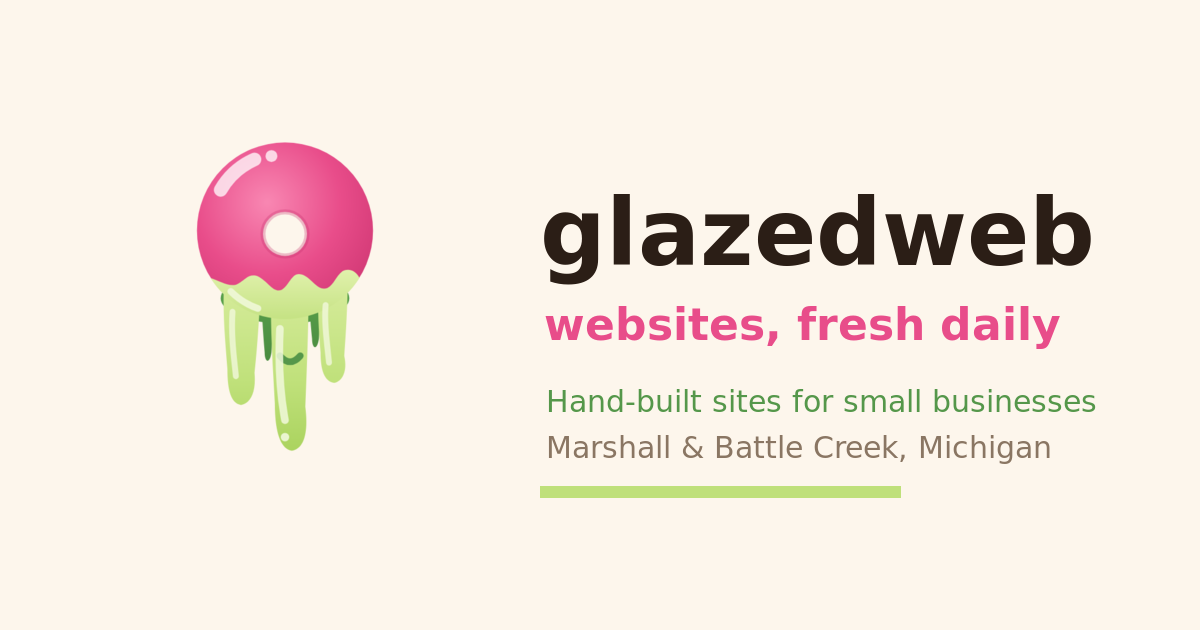
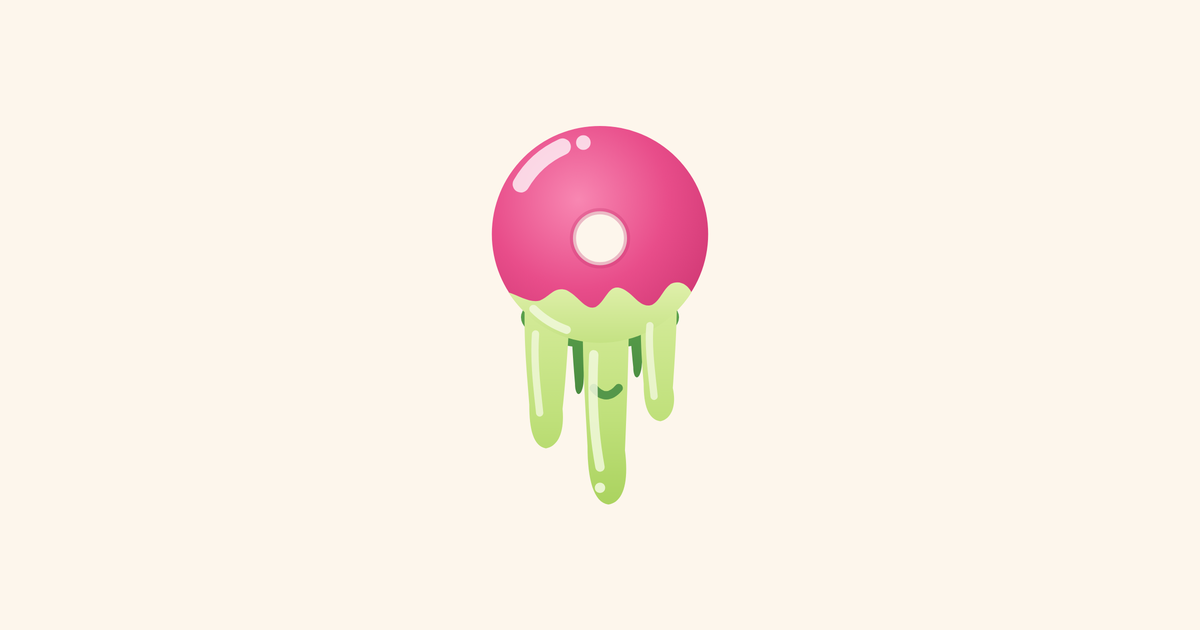
Share card is the mark alone now
Kevin wants the drippy donut and nothing else. The card carried the mark plus
the wordmark, "websites, fresh daily", a hand-built line, a geo line and a
green rule, which is a lot of reading for something rendered two inches wide in
a text message.

Nothing is actually lost by stripping it. Every client renders the openGraph
title and description as text beside the image, and those still say "Web Design
in Marshall & Battle Creek, MI | glazedweb" with the price and the timeline. So
the card only has to be recognisable, and the logo does that better alone than
crowded.

Rendered from public/brand/logo.svg rather than redrawn, at 520px on the cream
ground, 2x and downsampled. 219KB to 52KB as a side effect of dropping the type.

One thing that needed measuring rather than eyeballing: the logo's viewBox
carries empty space below the drips, so centring the element leaves the artwork
visibly high, 92px of cream above against 159px below. Solved it by rendering,
reading the ink bounds off the pixels, and iterating to a 33.5px downward
shift, which lands at 126 against 125. Also checked the mark stays inside the
central 630x630 square and the 1200x600 Twitter crop, so neither clips it.

Added twitter: { card: "summary_large_image" } and nothing else. Without it the
image is found but rendered as a small square thumbnail. With title,
description or image alongside it, every sub-page would inherit the homepage's
card, which is the exact bug I had to unpick on copperac.
[…]

Changed region(s): [[0.4008, 0.181, 0.925, 0.8143], [0.1542, 0.2111, 0.3083, 0.7238]]

diff --git a/app/layout.jsx b/app/layout.jsx
@@ -20,7 +20,15 @@ export const metadata = {
       "Hand-built websites for Michigan small businesses from $750, live in 2 weeks. Order it like a donut: pick a flavor, we bake it fresh, it ships glazed.",
     type: "website",
     url: "https://www.glazedweb.com",
-    images: [{ url: "/og.png", width: 1200, height: 630, alt: "glazedweb — small-batch web design in Marshall, Michigan" }],
+    images: [{ url: "/og.png", width: 1200, height: 630, alt: "The glazedweb mark: a pink donut with a green glaze dripping off it" }],
+  },
+  // Only the card type. Deliberately no title, description or image here: a
+  // twitter block with those set at the root gets inherited by every sub-page,
+  // so pages that override openGraph would still advertise the homepage's card
+  // to any scraper that prefers twitter:*. Without this line the image is still
+  // found, but rendered as a small square thumbnail rather than a wide card.
+  twitter: {
+    card: "summary_large_image",
   },
 };
 

diff --git a/README.md b/README.md
@@ -117,6 +117,35 @@ The fallback copy used to read "Email isn't wired up on this form yet". True,
 and the wrong thing to say on the last screen of a funnel to somebody deciding
 whether to pay us to build their website. Same behaviour, no confession.
 
+## The share card
+
+`public/og.png` is what appears when the link is texted or posted. It is the
+mark alone on the cream ground, no wordmark and no copy, by request.
+
+The words are not lost by doing that: every client renders the `openGraph`
+title and description as text beside the image, and those still carry
+"Web Design in Marshall & Battle Creek, MI" and the price and timeline. The
+card only has to be recognisable.
+
+To remake it: `public/brand/logo.svg` at 520px tall, centred on `#FDF6EC` in a
+1200x630 frame, rendered at 2x and downsampled. One detail that is not
+obvious, and was measured rather than eyeballed: the logo's viewBox carries
+empty space below the drips, so centring the element leaves the artwork sitting
+high, at 92px of cream above against 159px below. Shifting it down 33.5px
+centres the ink, at 126 against 125. The mark also stays inside the central
+630x630 square so it survives the square crop some clients apply, and inside
+the 1200x600 Twitter crop.
+
+`twitter` in `app/layout.jsx` sets the card type and nothing else, on purpose.
+A root twitter block carrying title, description or image is inherited by every
+sub-page, so pages that override `openGraph` would still hand the homepage's
+card to any scraper preferring `twitter:*`.
+
+Changing this file does not change what has already been shared. Facebook,
+iMessage and LinkedIn cache preview images hard. Force a re-scrape through
+Facebook's Sharing Debugger; iMessage clears itself over a few days and has no
+button.
+
 ## Brand
 
 - Mark: pink donut + green slime drip (see `components/Logo.jsx`)
